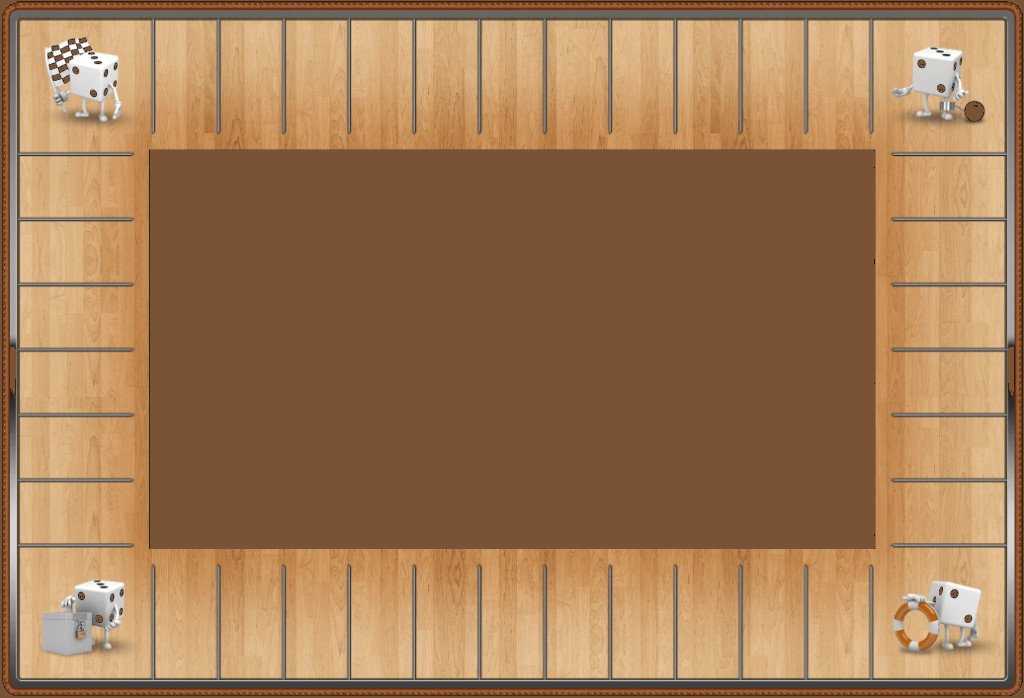
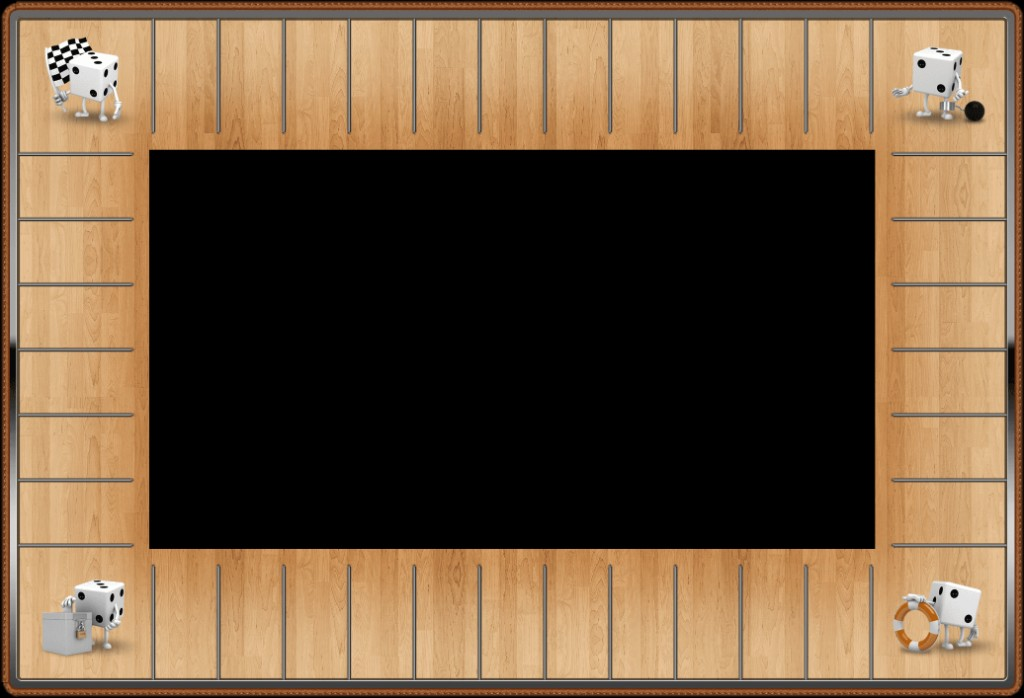
Restore board-frame art and match page background to cell wood.

diff --git a/css/style.css b/css/style.css
@@ -1,11 +1,13 @@
 :root {
-  --bg: #6e4a30;
-  --field-brown: #7a5236;
+  --bg: #cba173;
+  --field-brown: #cba173;
   --leather: #5c4033;
   --leather-dark: #3d2a20;
   --leather-light: #7a5644;
   --wood: #e8d4b0;
   --wood-dark: #c9b089;
+  --board-wood: #cba173;
+  --board-wood-img: url('/assets/ui/board-wood.png');
   --ink: #2a1c14;
   --ink-soft: #f3e6d4;
   --muted: #b8a090;
@@ -46,8 +48,8 @@ html, body { height: 100%; }
 body {
   font-family: var(--font);
   background:
-    var(--wood-img) center / 160px 160px repeat,
-    linear-gradient(160deg, #8a5c3a, #6e4a30 45%, #5c3e28);
+    var(--board-wood-img) center / 120px 90px repeat,
+    var(--board-wood);
   color: var(--ink-soft);
   min-height: 100vh;
   min-height: 100dvh;
@@ -311,10 +313,10 @@ button, input, select { font-family: inherit; }
   padding: 8px;
   box-sizing: border-box;
   overflow: hidden;
-  /* тот же коричневый «деревянный» тон, что у ячеек — без чёрных полей */
+  /* тот же светлый дуб, что у клеток доски */
   background:
-    var(--wood-img) center / 160px 160px repeat,
-    linear-gradient(160deg, #8a5c3a 0%, #744c32 40%, #6a452c 100%);
+    var(--board-wood-img) center / 120px 90px repeat,
+    var(--board-wood);
 }
 
 .game-stage {
@@ -348,9 +350,7 @@ button, input, select { font-family: inherit; }
   width: fit-content;
   height: fit-content;
   max-width: 100%;
-  background:
-    var(--wood-img) center / 160px 160px repeat,
-    #7a5236 url('/assets/board/board-frame.png') center / 100% 100% no-repeat;
+  background: #1a120c url('/assets/board/board-frame.png') center / 100% 100% no-repeat;
   border-radius: 10px;
   border: none;
   box-shadow: var(--shadow);
@@ -769,13 +769,16 @@ button, input, select { font-family: inherit; }
 .token--board {
   background: transparent !important;
   overflow: visible;
+  box-shadow: none !important;
+  border: none !important;
+  filter: none !important;
 }
 
 .token--board {
   --token-size: clamp(34px, 4vw, 48px);
   width: var(--token-size);
   height: var(--token-size);
-  border-radius: 50%;
+  border-radius: 0;
 }
 
 .token--board::after {
@@ -787,7 +790,9 @@ button, input, select { font-family: inherit; }
   width: 100%;
   height: 100%;
   object-fit: contain;
-  /* тень уже в PNG (field chips) — без filter */
+  /* тень уже в PNG (field chips) */
+  filter: none;
+  box-shadow: none;
 }
 
 .token__ring {
@@ -1546,11 +1551,11 @@ button, input, select { font-family: inherit; }
   align-self: stretch;
   height: auto;
   background:
-    linear-gradient(160deg, rgba(120, 80, 50, 0.35), rgba(90, 58, 36, 0.4)),
-    var(--wood-img) center / 160px 160px repeat,
-    #6e4a30;
+    linear-gradient(160deg, rgba(90, 60, 35, 0.18), rgba(70, 45, 25, 0.22)),
+    var(--board-wood-img) center / 120px 90px repeat,
+    var(--board-wood);
   border-radius: 14px;
-  border: 3px solid #5a3a24;
+  border: 3px solid #8a6a48;
   box-shadow:
     inset 0 0 0 1px rgba(180, 140, 100, 0.25),
     var(--shadow);
